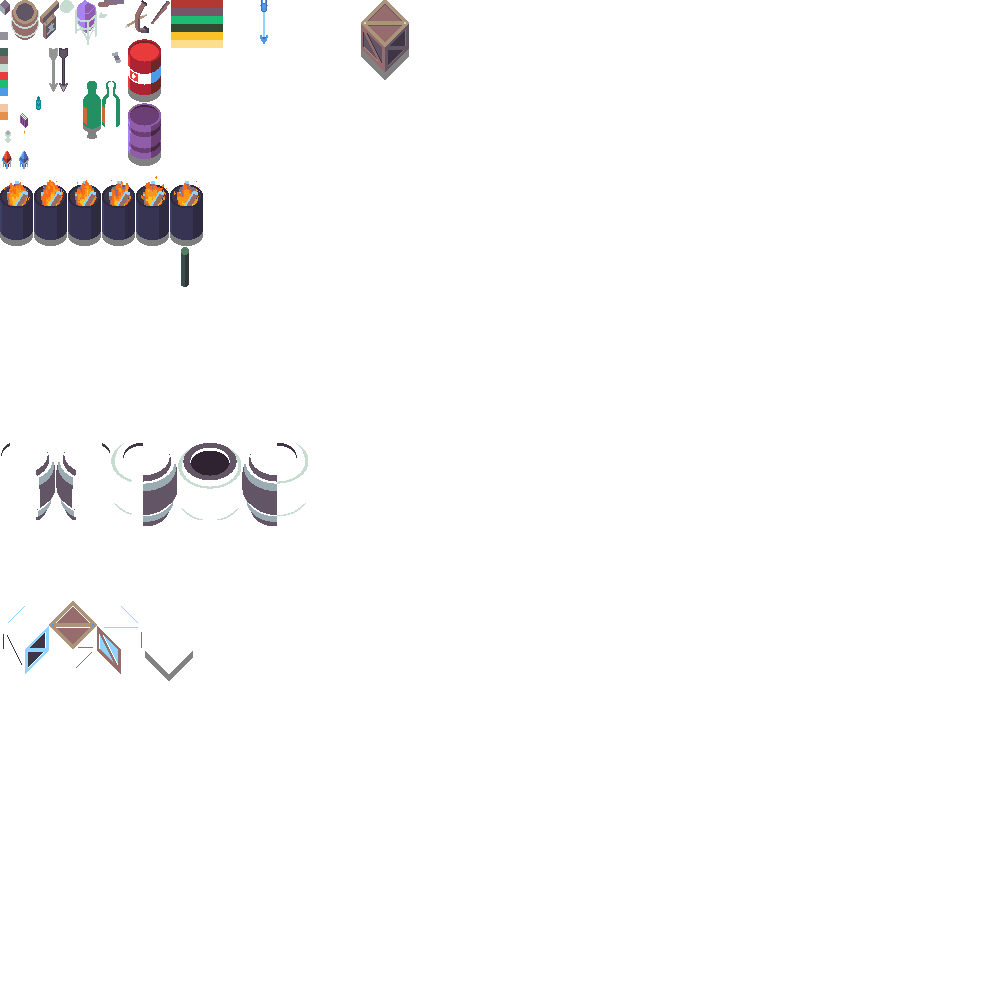
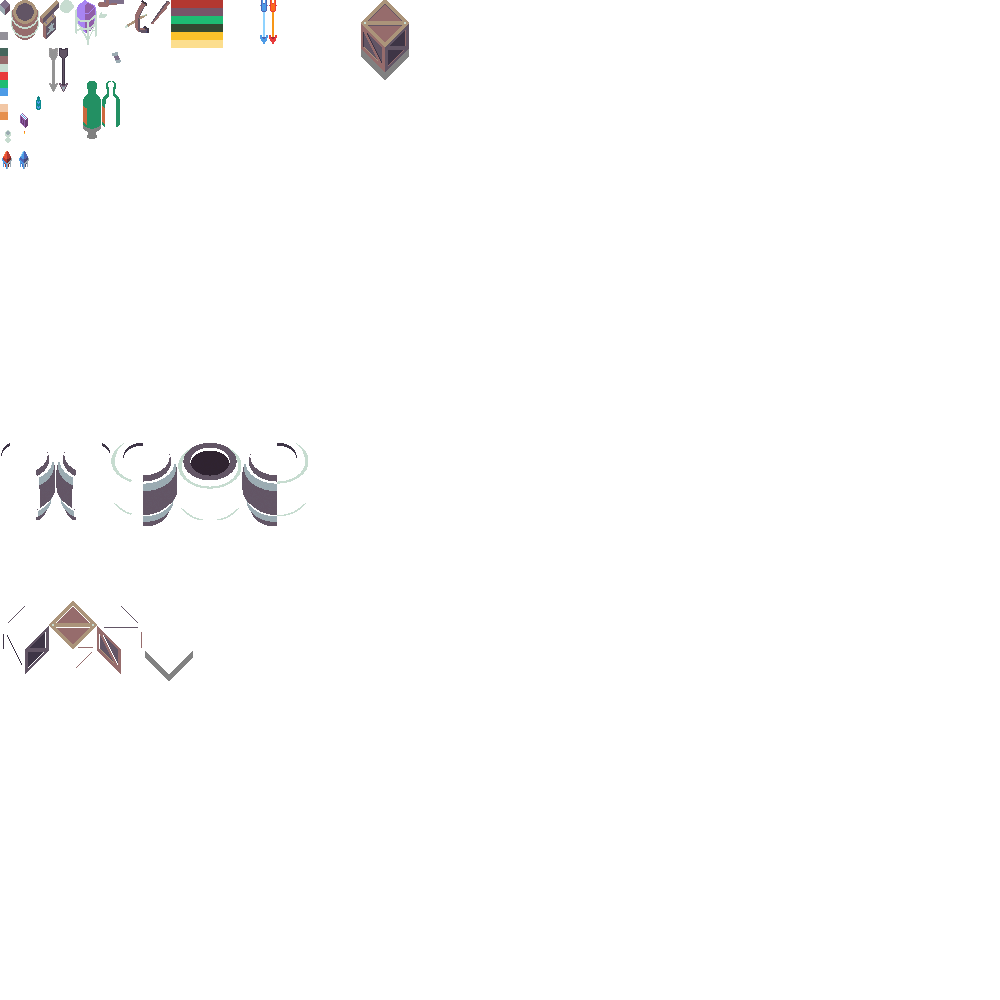
0.8.3316

diff --git a/amulet_flutter/lib/gamestream/isometric/components/render/renderer_projectiles.dart b/amulet_flutter/lib/gamestream/isometric/components/render/renderer_projectiles.dart
@@ -23,6 +23,9 @@ class RendererProjectiles extends RenderGroup {
       case ProjectileType.Ice_Arrow:
         renderIceArrow(dstX, dstY, angle);
         return;
+      case ProjectileType.Fire_Arrow:
+        renderFireArrow(dstX, dstY, angle);
+        return;
       case ProjectileType.Fireball:
         const width = 18.0;
         const height = 23.0;
@@ -107,6 +110,33 @@ class RendererProjectiles extends RenderGroup {
     engine.renderSpriteRotated(
       image: images.atlas_gameobjects,
       srcX: 260,
+      srcY: 0,
+      srcWidth: 8,
+      srcHeight: 44,
+      dstX: x,
+      dstY: y,
+      rotation: rotation - piQuarter,
+      scale: 0.7,
+    );
+  }
+
+  void renderFireArrow(double x, double y, double rotation) {
+    // shadow
+    engine.renderSpriteRotated(
+      image: images.atlas_gameobjects,
+      srcX: 49,
+      srcY: 48,
+      srcWidth: 9,
+      srcHeight: 44,
+      dstX: x,
+      dstY: y + 10,
+      rotation: rotation - piQuarter,
+      scale: 0.7,
+    );
+
+    engine.renderSpriteRotated(
+      image: images.atlas_gameobjects,
+      srcX: 269,
       srcY: 0,
       srcWidth: 8,
       srcHeight: 44,

diff --git a/amulet_engine/lib/classes/amulet_game.dart b/amulet_engine/lib/classes/amulet_game.dart
@@ -431,6 +431,22 @@ class AmuletGame extends IsometricGame<AmuletPlayer> {
     );
   }
 
+  void characterPerformSkillTypeFireArrow(Character character) {
+    dispatchGameEventPosition(GameEvent.Bow_Released, character);
+    spawnProjectileFireArrow(
+      src: character,
+      damage: getCharacterSkillTypeDamage(
+          character: character,
+          skillType: SkillType.Fire_Arrow,
+      ),
+      range: getCharacterSkillTypeRange(
+          character: character,
+          skillType: SkillType.Fire_Arrow,
+      ),
+      angle: character.angle,
+    );
+  }
+
   void characterPerformSkillTypeSplitShot(Character character) {
     final damage = getCharacterSkillTypeDamage(
         character: character,
@@ -995,11 +1011,6 @@ class AmuletGame extends IsometricGame<AmuletPlayer> {
       );
     }
   }
-
-  void characterPerformSkillTypeFireArrow(Character character) {
-
-  }
-
 }
 
 

diff --git a/amulet_engine/lib/packages/isometric_engine/packages/common/src/amulet/amulet_item.dart b/amulet_engine/lib/packages/isometric_engine/packages/common/src/amulet/amulet_item.dart
@@ -378,7 +378,7 @@ enum AmuletItem {
     maxHealth: 7,
     characteristics: Proficiencies(dexterity: 1),
   ),
-  Armor_Rogue_1_Cloak_Rare(
+  Armor_Rogue_1_Cloak_of_Frost(
     label: 'Cloak of Frost',
     levelMin: 1,
     levelMax: 5,
@@ -388,6 +388,17 @@ enum AmuletItem {
     maxHealth: 10,
     skillType: SkillType.Ice_Arrow,
     characteristics: Proficiencies(dexterity: 2),
+  ),
+  Armor_Rogue_1_Cloak_of_Fire(
+    label: 'Cloak of Fire',
+    levelMin: 1,
+    levelMax: 5,
+    type: ItemType.Armor,
+    subType: ArmorType.Cloak,
+    quality: ItemQuality.Rare,
+    maxHealth: 10,
+    skillType: SkillType.Fire_Arrow,
+    characteristics: Proficiencies(dexterity: 3, intelligence: 1),
   ),
   Armor_Rogue_1_Cloak_Legendary(
     label: 'Cloak',

diff --git a/amulet_engine/lib/packages/isometric_engine/packages/common/src/isometric/projectile_type.dart b/amulet_engine/lib/packages/isometric_engine/packages/common/src/isometric/projectile_type.dart
@@ -4,12 +4,14 @@ class ProjectileType {
    static const Fireball = 1;
    static const FrostBall = 2;
    static const Ice_Arrow = 3;
+   static const Fire_Arrow = 4;
 
    static double getSpeed(int type) => const {
       Arrow: 5.0,
       Fireball: 4.5,
       FrostBall: 3.0,
       Ice_Arrow: 5.0,
+      Fire_Arrow: 5.0,
    }[type] ?? (throw Exception('ProjectileType.getSpeed(${getName(type)})'));
 
    static double getRadius(int type) => const {
@@ -23,5 +25,6 @@ class ProjectileType {
          Fireball: 'Fireball',
          FrostBall: 'FrostBall',
          Ice_Arrow: 'Ice Arrow',
+         Fire_Arrow: 'Fire Arrow',
       }[value] ?? 'projectile-name-unknown-$value';
 }

diff --git a/amulet_engine/lib/packages/isometric_engine/classes/isometric_game.dart b/amulet_engine/lib/packages/isometric_engine/classes/isometric_game.dart
@@ -1511,6 +1511,25 @@ abstract class IsometricGame<T extends IsometricPlayer> {
     );
   }
 
+  void spawnProjectileFireArrow({
+    required Character src,
+    required int damage,
+    required double range,
+    Position? target,
+    double? angle,
+  }) {
+    assert (range > 0);
+    assert (damage > 0);
+    spawnProjectile(
+      src: src,
+      range: range,
+      target: target,
+      angle: target != null ? null : angle ?? src.angle,
+      projectileType: ProjectileType.Fire_Arrow,
+      damage: damage,
+    );
+  }
+
   Projectile spawnProjectile({
     required Character src,
     required double range,

diff --git a/amulet_flutter/lib/gamestream/isometric/atlases/atlas_src_amulet_item.dart b/amulet_flutter/lib/gamestream/isometric/atlases/atlas_src_amulet_item.dart
@@ -70,7 +70,8 @@ const atlasSrcAmuletItem = <AmuletItem, List<double>> {
   AmuletItem.Armor_Wizard_1_Robe_Rare: _armor_garb,
   AmuletItem.Armor_Wizard_1_Robe_Legendary: _armor_attire,
   AmuletItem.Armor_Rogue_1_Cloak_Common: _armor_cloak,
-  AmuletItem.Armor_Rogue_1_Cloak_Rare: _armor_cloak,
+  AmuletItem.Armor_Rogue_1_Cloak_of_Fire: _armor_cloak,
+  AmuletItem.Armor_Rogue_1_Cloak_of_Frost: _armor_cloak,
   AmuletItem.Armor_Rogue_1_Cloak_Legendary: _armor_cloak,
   AmuletItem.Armor_Rogue_2_Mantle_Common: _armor_mantle,
   AmuletItem.Armor_Rogue_2_Mantle_Rare: _armor_mantle,

diff --git a/amulet_flutter/lib/gamestream/isometric/components/isometric_scene.dart b/amulet_flutter/lib/gamestream/isometric/components/isometric_scene.dart
@@ -1538,6 +1538,13 @@ class IsometricScene with IsometricComponent implements Updatable {
             z: projectile.z,
           );
           break;
+        case ProjectileType.Fire_Arrow:
+          particles.emitFlame(
+            x: projectile.x,
+            y: projectile.y,
+            z: projectile.z,
+          );
+          break;
         case ProjectileType.Ice_Arrow:
           particles.emitIce(
             x: projectile.x,

diff --git a/amulet_engine/lib/classes/amulet_player.dart b/amulet_engine/lib/classes/amulet_player.dart
@@ -1059,6 +1059,7 @@ class AmuletPlayer extends IsometricPlayer with
       SkillType.Shoot_Arrow,
       SkillType.Split_Shot,
       SkillType.Ice_Arrow,
+      SkillType.Fire_Arrow,
     ].contains(skillType)) {
       return equippedWeaponDamage + characteristicsRogue ~/ divider;
     }

diff --git a/amulet_flutter/lib/gamestream/isometric/atlases/atlas_src_skill_type.dart b/amulet_flutter/lib/gamestream/isometric/atlases/atlas_src_skill_type.dart
@@ -19,4 +19,5 @@ const atlasSrcSkillType = <SkillType, List<double>> {
   SkillType.Freeze_Target: [_srcX, iconSizeSkillType * 11],
   SkillType.Freeze_Area: [_srcX, iconSizeSkillType * 12],
   SkillType.Ice_Arrow: [_srcX, 208],
+  SkillType.Fire_Arrow: [_srcX, 224],
 };
